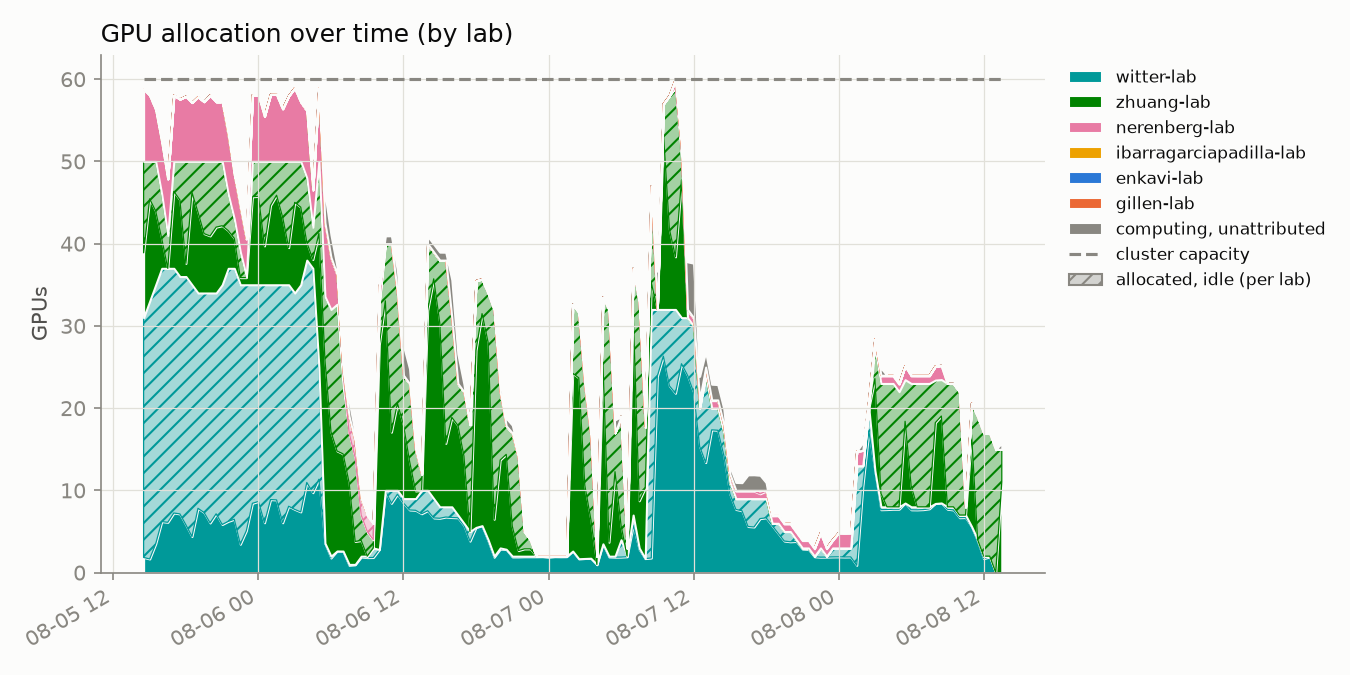
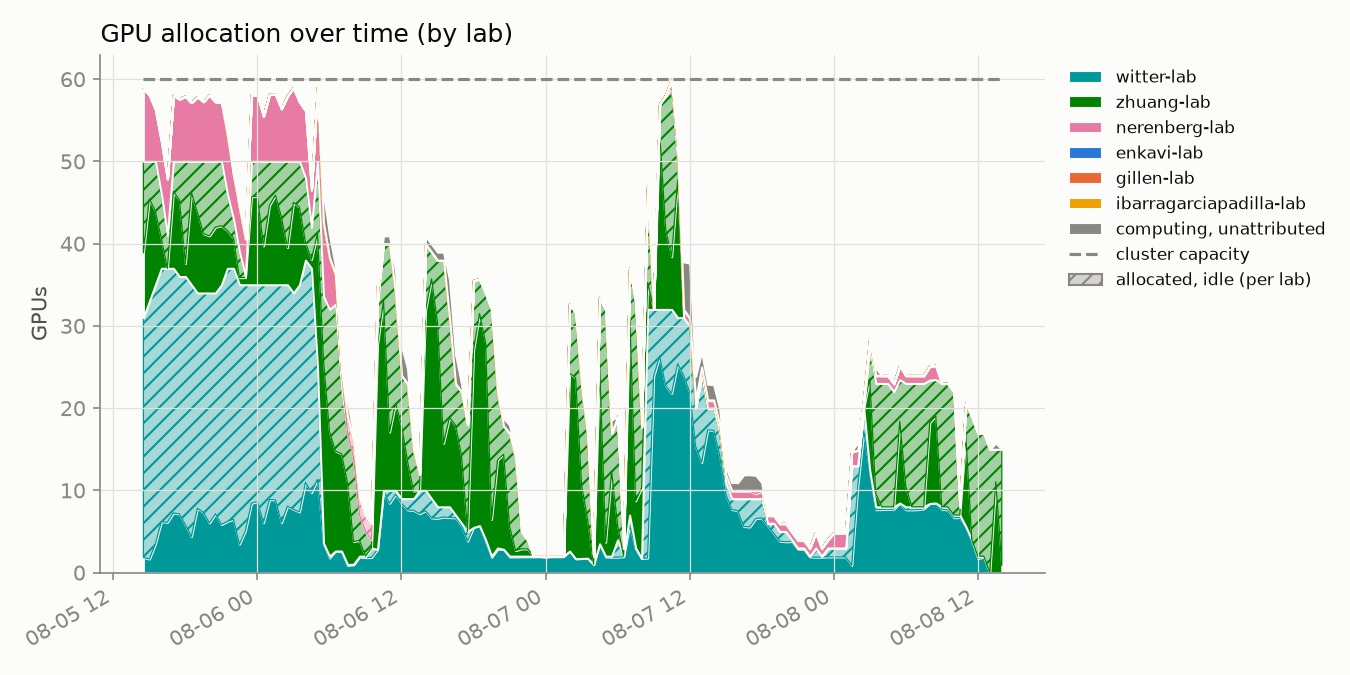
update 2026-08-08T14:00:01-07:00

diff --git a/README.md b/README.md
@@ -2,8 +2,8 @@
 
 Automated GPU/CPU/queue utilization tracker for `hopper.cluster`, updated every 30 minutes by cron. Usernames are anonymized to a stable per-account pseudonym; lab names are real.
 
-Last updated: 2026-08-08T13:30:10-07:00
-Samples: 143 queue snapshots, 143 GPU snapshots
+Last updated: 2026-08-08T14:00:10-07:00
+Samples: 144 queue snapshots, 144 GPU snapshots
 
 ## Resources
 
@@ -16,25 +16,25 @@ Samples: 143 queue snapshots, 143 GPU snapshots
 
 ## Headline
 
-- **44.4%** of the cluster's 60 GPUs allocated, averaged across all samples
-- **46.8%** average `nvidia-smi` utilization *when* a GPU is allocated to a job
+- **44.2%** of the cluster's 60 GPUs allocated, averaged across all samples
+- **46.6%** average `nvidia-smi` utilization *when* a GPU is allocated to a job
 - **88.3%** average cgroup CPU utilization *when* a CPU is allocated to a job
 
 ## Per lab / per user
 
 <table>
 <tr><th>Lab</th><th>User</th><th align='right'>GPU-hours allocated</th><th align='right'>CPU-hours allocated</th><th align='right'>GPU utilization</th></tr>
-<tr style='background-color:#d8ecd8'><td>zhuang-lab</td><td>user-0db9ced0</td><td align='right'>879.5</td><td align='right'>879.5</td><td align='right'>44%</td></tr>
+<tr style='background-color:#d8ecd8'><td>zhuang-lab</td><td>user-0db9ced0</td><td align='right'>887.0</td><td align='right'>887.0</td><td align='right'>44%</td></tr>
 <tr style='background-color:#d8efef'><td>witter-lab</td><td>user-554c620c</td><td align='right'>493.5</td><td align='right'>1019.0</td><td align='right'>68%</td></tr>
 <tr style='background-color:#d8efef'><td>witter-lab</td><td>user-d58f5a15</td><td align='right'>467.5</td><td align='right'>3740.0</td><td align='right'>9%</td></tr>
 <tr style='background-color:#fbebf1'><td>nerenberg-lab</td><td>user-6bb5f332</td><td align='right'>40.0</td><td align='right'>200.0</td><td align='right'>71%</td></tr>
 <tr style='background-color:#fbebf1'><td>nerenberg-lab</td><td>user-fedb5feb</td><td align='right'>22.5</td><td align='right'>54.0</td><td align='right'>67%</td></tr>
-<tr style='background-color:#fcf0d8'><td>ibarragarciapadilla-lab</td><td>user-eec7ffae</td><td align='right'>0.0</td><td align='right'>426.5</td><td align='right'>—</td></tr>
-<tr style='background-color:#dfeaf8'><td>enkavi-lab</td><td>user-c21bdaa4</td><td align='right'>0.0</td><td align='right'>183.0</td><td align='right'>—</td></tr>
 <tr style='background-color:#fcf0d8'><td>ibarragarciapadilla-lab</td><td>user-dad71a72</td><td align='right'>0.0</td><td align='right'>6.0</td><td align='right'>—</td></tr>
-<tr style='background-color:#fcf0d8'><td>ibarragarciapadilla-lab</td><td>user-3cfc41a3</td><td align='right'>0.0</td><td align='right'>3997.5</td><td align='right'>—</td></tr>
-<tr style='background-color:#fce8e0'><td>gillen-lab</td><td>user-b89a87ef</td><td align='right'>0.0</td><td align='right'>768.0</td><td align='right'>—</td></tr>
+<tr style='background-color:#dfeaf8'><td>enkavi-lab</td><td>user-c21bdaa4</td><td align='right'>0.0</td><td align='right'>185.0</td><td align='right'>—</td></tr>
 <tr style='background-color:#fbebf1'><td>nerenberg-lab</td><td>user-b12dc074</td><td align='right'>0.0</td><td align='right'>16.0</td><td align='right'>—</td></tr>
+<tr style='background-color:#fcf0d8'><td>ibarragarciapadilla-lab</td><td>user-3cfc41a3</td><td align='right'>0.0</td><td align='right'>4005.0</td><td align='right'>—</td></tr>
+<tr style='background-color:#fcf0d8'><td>ibarragarciapadilla-lab</td><td>user-eec7ffae</td><td align='right'>0.0</td><td align='right'>426.5</td><td align='right'>—</td></tr>
+<tr style='background-color:#fce8e0'><td>gillen-lab</td><td>user-b89a87ef</td><td align='right'>0.0</td><td align='right'>780.0</td><td align='right'>—</td></tr>
 </table>
 
 ## Usage over time
@@ -45,7 +45,7 @@ Samples: 143 queue snapshots, 143 GPU snapshots
 
 Solid = utilized by lab, hatched = allocated but idle, gray = usage not traceable to a lab, dashed line = cluster capacity.
 
-Attribution combines `nvidia-smi`'s process listing with Slurm's GPU-to-job binding record; the latter caught **2728** readings the former missed.
+Attribution combines `nvidia-smi`'s process listing with Slurm's GPU-to-job binding record; the latter caught **2740** readings the former missed.
 
 ## Queue
 
@@ -57,13 +57,13 @@ Attribution combines `nvidia-smi`'s process listing with Slurm's GPU-to-job bind
 
 ![CPU usage vs GPU usage, decayed](assets/cpu_gpu_usage.png)
 
-One point per user per snapshot (n=686), usage decayed on Slurm's ~7-day fairshare half-life.
+One point per user per snapshot (n=690), usage decayed on Slurm's ~7-day fairshare half-life.
 
 **GPU usage doesn't count toward priority on this cluster** (`TRESBillingWeights`/`PriorityWeightTRES` unset) - watch the **upper-left**: low CPU usage (high priority) with high GPU usage.
 
 ## Recommendations
 
-1. **Weight GPU usage in fairshare.** `TRESBillingWeights` and `PriorityWeightTRES` are both unset right now, so Slurm's fairshare score only sees CPU-seconds - a job holding 4 idle L40S GPUs costs nothing in priority as long as it isn't also holding CPUs. That's the exact failure mode the scatter above is built to catch (upper-left: low CPU usage, high GPU usage). Fix: `scontrol update partition=main TRESBillingWeights=CPU=1.0,GRES/gpu=<weight>` (or set `PriorityWeightTRES` cluster-wide), then `scontrol reconfigure` - a full `slurmctld` restart also works but drops in-flight priority state. A reasonable starting point for `<weight>` is the CPUs-per-GPU ratio on a GPU node (128 CPUs / 4 GPUs = 32), so one GPU costs as much fairshare as the CPU share it displaces; tune from there against next week's headline numbers (44.4% allocated, 46.8% utilized when allocated, as of this snapshot). The weight value itself is a policy call - loop in whoever owns cluster allocation policy before changing it.
+1. **Weight GPU usage in fairshare.** `TRESBillingWeights` and `PriorityWeightTRES` are both unset right now, so Slurm's fairshare score only sees CPU-seconds - a job holding 4 idle L40S GPUs costs nothing in priority as long as it isn't also holding CPUs. That's the exact failure mode the scatter above is built to catch (upper-left: low CPU usage, high GPU usage). Fix: `scontrol update partition=main TRESBillingWeights=CPU=1.0,GRES/gpu=<weight>` (or set `PriorityWeightTRES` cluster-wide), then `scontrol reconfigure` - a full `slurmctld` restart also works but drops in-flight priority state. A reasonable starting point for `<weight>` is the CPUs-per-GPU ratio on a GPU node (128 CPUs / 4 GPUs = 32), so one GPU costs as much fairshare as the CPU share it displaces; tune from there against next week's headline numbers (44.2% allocated, 46.6% utilized when allocated, as of this snapshot). The weight value itself is a policy call - loop in whoever owns cluster allocation policy before changing it.
 
 2. **Escalate on sustained low utilization** (see table and scatter above). Right now the clearest candidate is `user-d58f5a15` in `witter-lab`: 467.5 GPU-hours allocated at 9% average utilization, i.e. roughly 424 GPU-hours that sat idle instead of going to someone in the queue. Turning that into an automated escalation needs two decisions made up front: a utilization threshold (something like under 20% mean utilization over at least 50 allocated GPU-hours is a defensible starting bar - loose enough to skip short debugging runs, tight enough to catch parked allocations) and a grace period (how many consecutive low-utilization snapshots before it counts as "sustained" rather than a momentary lull between batches). Once those are set, the mechanism can be either soft (a bot that reads `data/gpu_samples.jsonl` and reminds the user/lab by email or Slack) or hard (a Slurm-side QOS penalty, e.g. `sacctmgr modify qos <qos> set Priority-=<n>`, applied after N consecutive offending snapshots). Neither exists yet - today the table and scatter above are a read-only signal, not an enforced policy.
 
